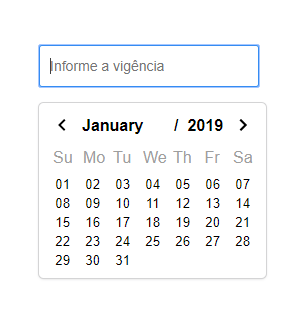
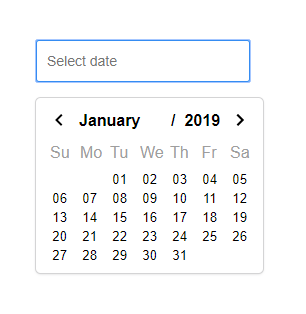
Change datepicker image, label and width input

diff --git a/src/App.js b/src/App.js
@@ -21,8 +21,11 @@ class App extends Component {
     return (
       <div className="App flex position-center">     
         <Datepicker 
-          label="Informe a vigência" 
-          handleDate={this.handleDate} /> 
+          label="Select date" 
+          handleDate={this.handleDate} 
+          // maxDate={} 
+          // minDate={}
+        /> 
       </div>
     );
   }

diff --git a/src/components/datepicker/datepicker.css b/src/components/datepicker/datepicker.css
@@ -1,6 +1,6 @@
 .datepicker-input {  
   margin-bottom: 16px;
-  width: 198px;
+  width: 100%;
   height: 2.5rem;
   line-height: 2.5rem;
   background: #fff;
